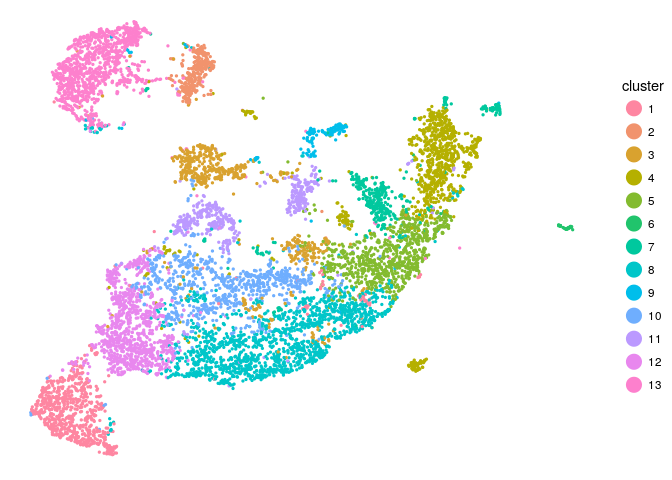
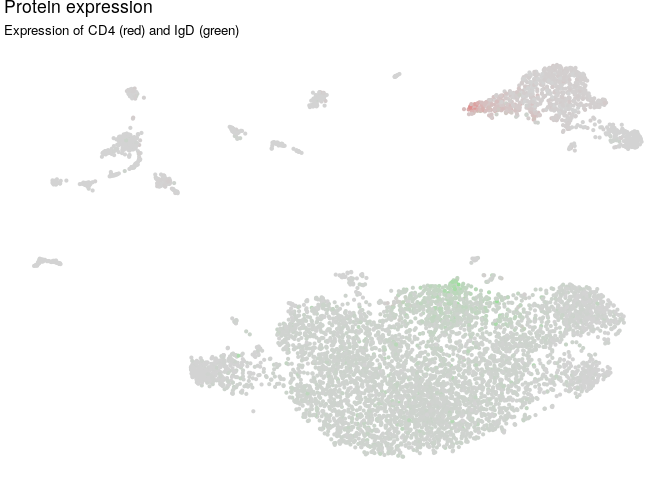
reran mapping tutorial with more plots

diff --git a/examples/mapping_tutorial.md b/examples/mapping_tutorial.md
@@ -105,7 +105,9 @@ stvea_object <- GetUmapCITE(stvea_object, n_neighbors = 50, min_dist=0.1, negati
 We cluster the CITE-seq cells based on their mRNA expression using a consensus of HDBSCAN clusterings. First, we run UMAP on the CITE-seq latent space to the same number of dimensions (running UMAP before density based clustering is suggested in the UMAP documentation <https://umap-learn.readthedocs.io/en/latest/clustering.html>). We perform a scan over the two parameters of the Python HDBSCAN implementation, min\_cluster\_size and min\_samples (more information on selecting these paramters <https://hdbscan.readthedocs.io/en/latest/parameter_selection.html>).
 
 ``` r
-stvea_object <- ParameterScan(stvea_object, min_cluster_size_range = seq(5,20,4), min_sample_range = seq(10,40,3), n_neighbors=50, min_dist=0.1, negative_sample_rate=50)
+stvea_object <- ParameterScan(stvea_object, min_cluster_size_range = seq(5,20,4),
+                              min_sample_range = seq(10,40,3), n_neighbors=50,
+                              min_dist=0.1, negative_sample_rate=50)
 ```
 
     ## Running UMAP on the CITE-seq latent space
@@ -116,7 +118,8 @@ stvea_object <- ParameterScan(stvea_object, min_cluster_size_range = seq(5,20,4)
 We create a dissimilarity matrix between cells as the number of HDBSCAN clusterings (passing a certain silhouette cutoff) in which they are assigned to the same cluster. The final consensus clusters are an agglomerative clustering on this dissimilarity matrix using Python's scipy.cluster.hierarchy, cutting the tree using the inconsistent value. We remove all clusters that have fewer than 10 cells, caused by the cells that HDBSCAN did not assign to any cluster.
 
 ``` r
-stvea_object <- ConsensusCluster(stvea_object, silhouette_cutoff = 0.1, inconsistent_value = 0.3, min_cluster_size = 10)
+stvea_object <- ConsensusCluster(stvea_object, silhouette_cutoff = 0.1,
+                                 inconsistent_value = 0.3, min_cluster_size = 10)
 ```
 
 Cluster CODEX cells based on protein expression
@@ -157,7 +160,9 @@ stvea_object <- GetTransferMatrix(stvea_object)
 Visualize clustering, mRNA, and protein expression
 --------------------------------------------------
 
-Color each cell in the CITE-seq UMAP embedding with its cluster assignment. Cells in gray were not assigned to any cluster.
+### Color each cell in the CITE-seq UMAP embedding with its cluster assignment.
+
+Cells in gray were not assigned to any cluster.
 
 ``` r
 PlotClusterCITE(stvea_object)
@@ -165,53 +170,61 @@ PlotClusterCITE(stvea_object)
 
 ![](mapping_tutorial_files/figure-markdown_github/unnamed-chunk-18-1.png)
 
-Color each cell in the CITE-seq UMAP embedding with its expression level of one of two genes. If two gene names are provided, color will be interpolated between red and green color values.
+### Color each cell in the CITE-seq UMAP embedding with its expression level of one or two genes.
+
+``` r
+PlotExprCITE(stvea_object, "Cd4", type="RNA")
+```
+
+![](mapping_tutorial_files/figure-markdown_github/unnamed-chunk-19-1.png) If two gene names are provided, color will be interpolated between red and green color values.
 
 ``` r
 PlotExprCITE(stvea_object, c("Cd4", "Ighd"), type="RNA")
 ```
 
-![](mapping_tutorial_files/figure-markdown_github/unnamed-chunk-19-1.png)
+![](mapping_tutorial_files/figure-markdown_github/unnamed-chunk-20-1.png)
 
-Color each cell in the CITE-seq UMAP embedding with its expression level of one of two proteins.
+### Color each cell in the CITE-seq UMAP embedding with its expression level of one or two proteins.
 
 ``` r
 PlotExprCITE(stvea_object, c("CD4","IgD"), type="protein")
 ```
 
-![](mapping_tutorial_files/figure-markdown_github/unnamed-chunk-20-1.png)
+![](mapping_tutorial_files/figure-markdown_github/unnamed-chunk-21-1.png)
 
-Color each cell in the CODEX UMAP embedding with its cluster assignment. Cells in gray were not assigned to any cluster.
+### Color each cell in the CODEX UMAP embedding with its cluster assignment.
+
+Cells in gray were not assigned to any cluster.
 
 ``` r
 PlotClusterCODEXemb(stvea_object)
 ```
 
-![](mapping_tutorial_files/figure-markdown_github/unnamed-chunk-21-1.png)
+![](mapping_tutorial_files/figure-markdown_github/unnamed-chunk-22-1.png)
 
-Color each cell in the CODEX UMAP embedding with its expression level of one or two proteins.
+### Color each cell in the CODEX UMAP embedding with its expression level of one or two proteins.
 
 ``` r
 PlotExprCODEXemb(stvea_object, c("CD4","IgD"))
 ```
 
-![](mapping_tutorial_files/figure-markdown_github/unnamed-chunk-22-1.png)
+![](mapping_tutorial_files/figure-markdown_github/unnamed-chunk-23-1.png)
 
-Color the CODEX spatial slide with the expression level of one or two proteins.
+### Color the CODEX spatial slide with the expression level of one or two proteins.
 
 ``` r
 PlotExprCODEXspatial(stvea_object, c("CD4","IgD"))
 ```
 
-![](mapping_tutorial_files/figure-markdown_github/unnamed-chunk-23-1.png)
+![](mapping_tutorial_files/figure-markdown_github/unnamed-chunk-24-1.png)
 
-Color the CODEX spatial slide with the expression level of one or two genes that were mapped from the CITE-seq expression levels.
+### Color the CODEX spatial slide with the expression level of one or two genes that were mapped from the CITE-seq expression levels.
 
 ``` r
 PlotExprCODEXspatial(stvea_object, c("Cd4", "Ighd"), type="RNA")
 ```
 
-![](mapping_tutorial_files/figure-markdown_github/unnamed-chunk-24-1.png)
+![](mapping_tutorial_files/figure-markdown_github/unnamed-chunk-25-1.png)
 
 Assess colocalization of features
 ---------------------------------
@@ -226,14 +239,14 @@ Since we are computing the Adjacency Score of every combination of features (clu
 protein_adj <- AdjScoreProteins(stvea_object, k=3, num_cores=8)
 ```
 
-    ## Creating permutation matrices - 8.977 seconds
-    ## Computing adjacency score for each feature pair - 37.656 seconds
+    ## Creating permutation matrices - 8.979 seconds
+    ## Computing adjacency score for each feature pair - 38.665 seconds
 
 ``` r
 AdjScoreHeatmap(protein_adj)
 ```
 
-![](mapping_tutorial_files/figure-markdown_github/unnamed-chunk-25-1.png)
+![](mapping_tutorial_files/figure-markdown_github/unnamed-chunk-26-1.png)
 
 ### Which pairs of genes often have high expression mapped to adjacent CODEX cells?
 
@@ -251,14 +264,14 @@ for (gene in gene_list) {
 gene_adj <- AdjScoreGenes(stvea_object, gene_pairs,  k=3, num_cores=8)
 ```
 
-    ## Creating permutation matrices - 8.917 seconds
-    ## Computing adjacency score for each feature pair - 39.792 seconds
+    ## Creating permutation matrices - 9.207 seconds
+    ## Computing adjacency score for each feature pair - 37.332 seconds
 
 ``` r
 AdjScoreHeatmap(gene_adj)
 ```
 
-![](mapping_tutorial_files/figure-markdown_github/unnamed-chunk-26-1.png)
+![](mapping_tutorial_files/figure-markdown_github/unnamed-chunk-27-1.png)
 
 ### Which pairs of CODEX clusters often appear in adjacent cells?
 
@@ -268,14 +281,14 @@ Since the assignment of a cell to a cluster is a binary feature which is mutuall
 codex_cluster_adj <- AdjScoreClustersCODEX(stvea_object, k=3)
 ```
 
-    ## Creating permutation matrices - 0.009 seconds
-    ## Computing adjacency score for each feature pair - 0.301 seconds
+    ## Creating permutation matrices - 0.016 seconds
+    ## Computing adjacency score for each feature pair - 0.368 seconds
 
 ``` r
 AdjScoreHeatmap(codex_cluster_adj)
 ```
 
-![](mapping_tutorial_files/figure-markdown_github/unnamed-chunk-27-1.png)
+![](mapping_tutorial_files/figure-markdown_github/unnamed-chunk-28-1.png)
 
 ### Which pairs of clusters from the CITE-seq mRNA analysis are often mapped to adjacent CODEX cells?
 
@@ -285,11 +298,11 @@ These mapped cluster assignments are not mutually exclusive like the ones above,
 cite_cluster_adj <- AdjScoreClustersCITE(stvea_object, k=3, num_cores=8)
 ```
 
-    ## Creating permutation matrices - 7.982 seconds
-    ## Computing adjacency score for each feature pair - 25.527 seconds
+    ## Creating permutation matrices - 6.663 seconds
+    ## Computing adjacency score for each feature pair - 17.38 seconds
 
 ``` r
 AdjScoreHeatmap(cite_cluster_adj)
 ```
 
-![](mapping_tutorial_files/figure-markdown_github/unnamed-chunk-28-1.png)
+![](mapping_tutorial_files/figure-markdown_github/unnamed-chunk-29-1.png)
